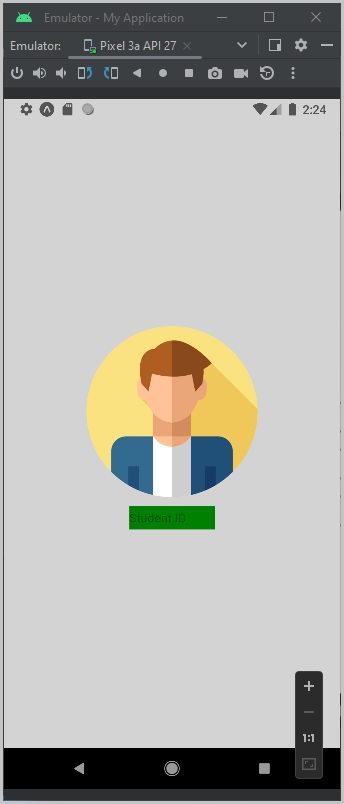
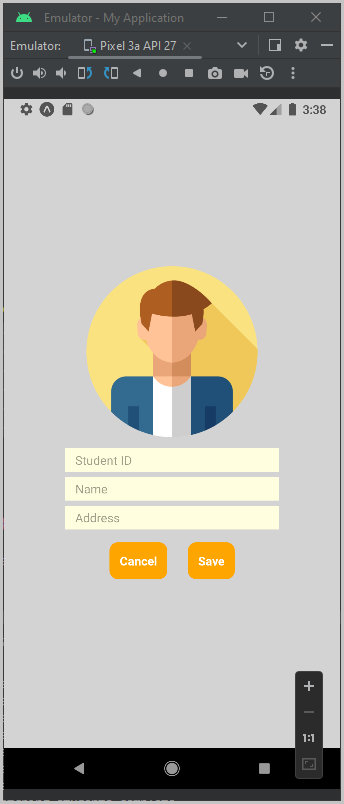
user creation ui improved

diff --git a/App.tsx b/App.tsx
@@ -33,8 +33,9 @@ const App = () => {
 
 
   return (
-    <ScrollView>
+    <ScrollView style={styles.scrollViewStyle} contentContainerStyle={{ flexGrow: 1 }}>
       <View style={styles.containerMain}>
+
         <Image style={styles.avatarImageStyle}
           source={require('./assets/man.png')}></Image>
 
@@ -63,12 +64,17 @@ const App = () => {
       <View style={styles.box3}></View> */}
 
         <View style={styles.buttonsContainer}>
+
           <TouchableOpacity style={styles.button}>
+
             <Text style={styles.buttonText}>Cancel</Text>
+
           </TouchableOpacity>
 
           <TouchableOpacity style={styles.button}>
+
             <Text style={styles.buttonText}>Save</Text>
+
           </TouchableOpacity>
 
           {/* startIcon={<DeleteIcon /> */}
@@ -77,20 +83,20 @@ const App = () => {
             Delete
           </Button> */}
 
-          <Button
+          {/* <Button
             title="Press me"
             onPress={() => Alert.alert('Simple Button pressed')}
 
-          />
+          /> */}
 
-          <Pressable
+          {/* <Pressable
             style={styles.button}
             // onPress={onPress}
             >
 
             <Text style={styles.button}>{}</Text>
-            
-          </Pressable>
+
+          </Pressable> */}
         </View>
       </View >
 
@@ -110,9 +116,7 @@ const styles = StyleSheet.create({
   },
   buttonsContainer: {
     flexDirection: 'row',
-
-    backgroundColor: 'red',
-
+    // backgroundColor: 'red',
   },
   // container: {
   //   flex: 1,
@@ -120,6 +124,10 @@ const styles = StyleSheet.create({
   //   alignItems: 'center',
   //   justifyContent: 'center',
   // },
+  scrollViewStyle: {
+    
+    // flex: 0,
+  },
 
   /**IMAGES */
   avatarImageStyle: {
@@ -146,10 +154,11 @@ const styles = StyleSheet.create({
     flex: 0,
     margin: 12,
     padding: 12,
-    backgroundColor: 'darkblue',
+    backgroundColor: 'orange',
     borderRadius: 10,
   },
   buttonText: {
+    fontWeight: 'bold',
     textAlign: 'center',
     color: 'white'
   },
